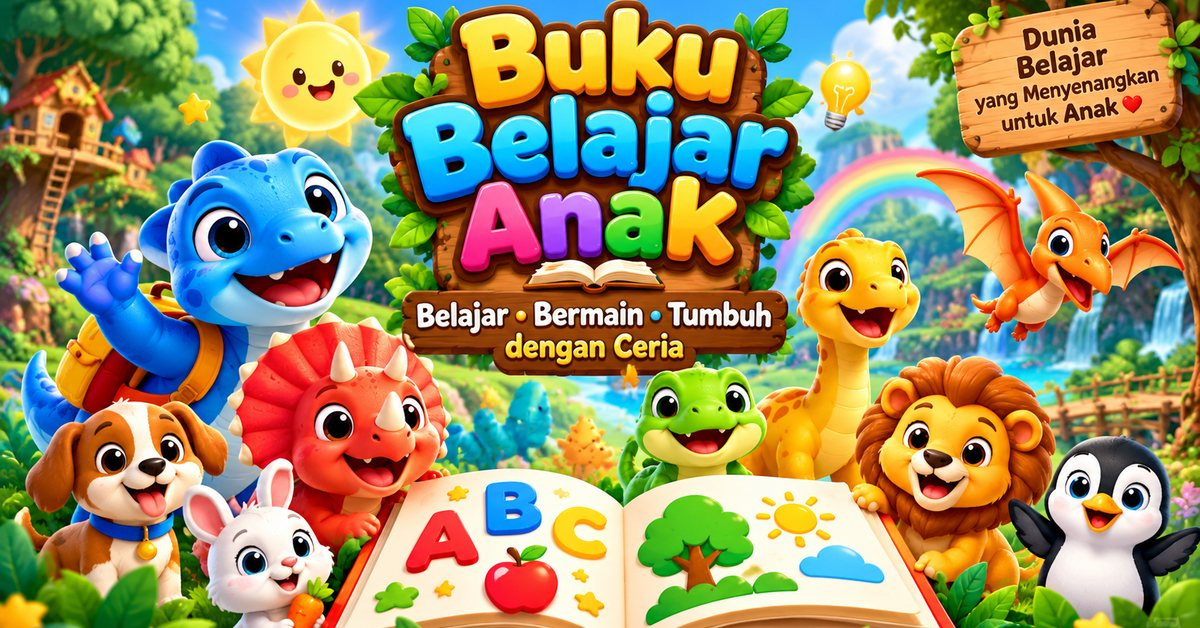
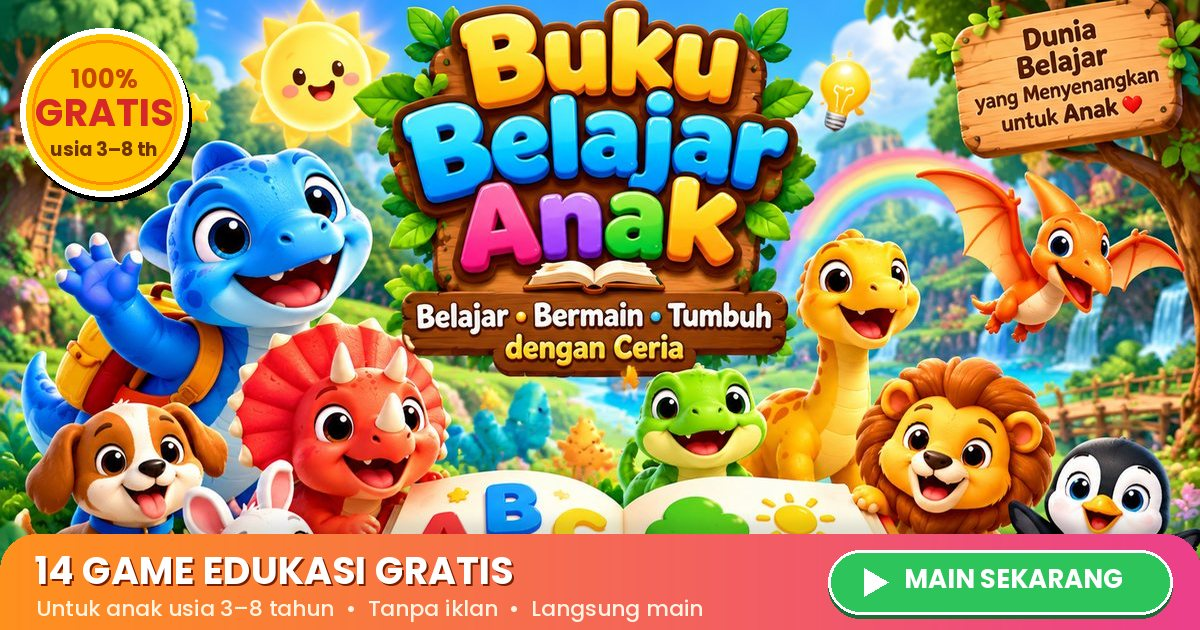
Add files via upload

diff --git a/index.html b/index.html
@@ -1,6 +1,6 @@
-<!doctype html><html lang="id"><head><meta charset="utf-8"><meta name="viewport" content="width=device-width,initial-scale=1,viewport-fit=cover"><title>Buku Belajar Anak – Game Edukasi Gratis untuk Anak 3–8 Tahun</title><meta name="description" content="Main &amp; belajar gratis bersama Dino! 14 game edukasi anak: mewarnai, berhitung, huruf, labirin, puzzle &amp; memori. Tanpa iklan, aman, bisa offline."><meta name="robots" content="index,follow,max-snippet:-1,max-image-preview:large,max-video-preview:-1"><meta name="author" content="Riki Hermawan"><meta name="application-name" content="Buku Belajar Anak"><meta name="apple-mobile-web-app-title" content="Buku Anak"><meta name="format-detection" content="telephone=no"><link rel="alternate" hreflang="id" href="https://belajarbermain.online/"><link rel="alternate" hreflang="x-default" href="https://belajarbermain.online/"><meta name="theme-color" content="#2f9bff"><link rel="canonical" href="https://belajarbermain.online/">
-<meta property="og:type" content="website"><meta property="og:site_name" content="Buku Belajar Anak"><meta property="og:locale" content="id_ID"><meta property="og:url" content="https://belajarbermain.online/"><meta property="og:title" content="Buku Belajar Anak 🦕 Game Edukasi Gratis, Seru & Aman untuk Anak"><meta property="og:description" content="Petualangan belajar bersama Dino Biru! 14 permainan edukasi: mewarnai, berhitung, huruf &amp; kata, labirin, puzzle, memori. 100% gratis, tanpa iklan, bisa offline. Yuk main! 🎮📚"><meta property="og:image" content="https://belajarbermain.online/preview.jpg"><meta property="og:image:type" content="image/jpeg"><meta property="og:image:width" content="1200"><meta property="og:image:height" content="628"><meta property="og:image:alt" content="Dino Biru, Dino Merah, dan Dino Kuning di Buku Belajar Anak: game edukasi gratis untuk anak">
-<meta name="twitter:card" content="summary_large_image"><meta name="twitter:title" content="Buku Belajar Anak 🦕 Game Edukasi Gratis, Seru & Aman untuk Anak"><meta name="twitter:description" content="Petualangan belajar bersama Dino Biru! 14 permainan edukasi: mewarnai, berhitung, huruf &amp; kata, labirin, puzzle, memori. 100% gratis, tanpa iklan, bisa offline. Yuk main! 🎮📚"><meta name="twitter:image" content="https://belajarbermain.online/preview.jpg">
+<!doctype html><html lang="id"><head><meta charset="utf-8"><meta name="viewport" content="width=device-width,initial-scale=1,viewport-fit=cover"><title>Buku Belajar Anak – Game Edukasi Gratis untuk Anak 3–8 Tahun</title><meta name="description" content="Main &amp; belajar gratis bersama 3 Dino! 14 game edukasi untuk anak 3–8 tahun: mewarnai, berhitung, huruf, labirin, puzzle &amp; memori. Tanpa iklan."><meta name="robots" content="index,follow,max-snippet:-1,max-image-preview:large,max-video-preview:-1"><meta name="author" content="Riki Hermawan"><meta name="application-name" content="Buku Belajar Anak"><meta name="apple-mobile-web-app-title" content="Buku Anak"><meta name="format-detection" content="telephone=no"><link rel="alternate" hreflang="id" href="https://belajarbermain.online/"><link rel="alternate" hreflang="x-default" href="https://belajarbermain.online/"><meta name="theme-color" content="#2f9bff"><link rel="canonical" href="https://belajarbermain.online/">
+<meta property="og:type" content="website"><meta property="og:site_name" content="Buku Belajar Anak"><meta property="og:locale" content="id_ID"><meta property="og:url" content="https://belajarbermain.online/"><meta property="og:title" content="Buku Belajar Anak 🦕 14 Game Edukasi Gratis"><meta property="og:description" content="Anak 3–8 th betah belajar! Gratis, tanpa iklan. Berhitung, huruf, logika, puzzle &amp; cerita bareng 3 Dino 🎮"><meta property="og:image" content="https://belajarbermain.online/preview-wa.jpg"><meta property="og:image:secure_url" content="https://belajarbermain.online/preview-wa.jpg"><meta property="og:image:type" content="image/jpeg"><meta property="og:image:width" content="1200"><meta property="og:image:height" content="630"><meta property="og:image:alt" content="Dino Biru, Dino Merah, dan Dino Kuning di Buku Belajar Anak. 14 game edukasi gratis untuk anak usia 3–8 tahun.">
+<meta name="twitter:card" content="summary_large_image"><meta name="twitter:title" content="Buku Belajar Anak 🦕 14 Game Edukasi Gratis"><meta name="twitter:description" content="Anak 3–8 th betah belajar! Gratis, tanpa iklan. Berhitung, huruf, logika, puzzle &amp; cerita bareng 3 Dino 🎮"><meta name="twitter:image" content="https://belajarbermain.online/preview-wa.jpg"><meta name="twitter:image:alt" content="Tiga Dino dan teman-teman di Buku Belajar Anak: 14 game edukasi gratis">
 <script type="application/ld+json">{"@context":"https://schema.org","@graph":[{"@type":"WebSite","@id":"https://belajarbermain.online/#website","url":"https://belajarbermain.online/","name":"Buku Belajar Anak","alternateName":["Belajar Bermain Online","Buku Anak"],"description":"Main & belajar gratis bersama Dino! 14 game edukasi anak: mewarnai, berhitung, huruf, labirin, puzzle & memori. Tanpa iklan, aman, bisa offline.","inLanguage":"id-ID","publisher":{"@id":"https://belajarbermain.online/#dev"}},{"@type":["SoftwareApplication","WebApplication"],"@id":"https://belajarbermain.online/#app","name":"Buku Belajar Anak","url":"https://belajarbermain.online/","description":"Petualangan belajar bersama Dino Biru! 14 permainan edukasi: mewarnai, berhitung, huruf & kata, labirin, puzzle, memori. 100% gratis, tanpa iklan, bisa offline. Yuk main! 🎮📚","applicationCategory":"EducationalApplication","operatingSystem":"Semua perangkat (Android, iOS, Windows, Smart TV) lewat browser","browserRequirements":"Membutuhkan JavaScript","inLanguage":"id-ID","isAccessibleForFree":true,"audience":{"@type":"PeopleAudience","suggestedMinAge":3,"suggestedMaxAge":8},"educationalUse":"Latihan berhitung, mengenal huruf, logika, memori, dan motorik halus","image":"https://belajarbermain.online/preview.jpg","offers":{"@type":"Offer","price":"0","priceCurrency":"IDR","availability":"https://schema.org/InStock"},"featureList":["14 permainan edukasi","Mewarnai, berhitung, huruf & kata, labirin, puzzle, memori","Tanpa iklan","Bisa dimainkan offline","Musik dan efek suara ramah anak","Peringkat dan progres belajar"],"author":{"@id":"https://belajarbermain.online/#dev"}},{"@type":"Person","@id":"https://belajarbermain.online/#dev","name":"Riki Hermawan","url":"https://benyoriki.com","jobTitle":"Sistem & Website Developer"}]}</script><link rel="manifest" href="manifest.json"><link rel="dns-prefetch" href="https://benyoriki.github.io"><link rel="icon" type="image/png" sizes="192x192" href="icon-192.png"><link rel="icon" type="image/png" sizes="512x512" href="icon-512.png"><link rel="apple-touch-icon" href="apple-touch-icon.png"><link rel="preload" href="fonts/fredoka-latin-wght-normal.woff2" as="font" type="font/woff2" crossorigin><link rel="preload" href="fonts/nunito-latin-wght-normal.woff2" as="font" type="font/woff2" crossorigin><link rel="stylesheet" href="style.css"><link rel="stylesheet" href="modern.css"></head>
 <body>
 <div id="ld" role="status" aria-label="Memuat"><div class="ldc"><i class="ai" style="--x:0%;--y:0%"></i><i class="ai" style="--x:8.3%;--y:0%"></i><i class="ai" style="--x:16.7%;--y:0%"></i></div><div class="lg"><span class="y">Buku</span> <span class="b">Belajar</span> <span class="p">Anak</span></div><span class="ver ldv">✨ Sistem Update v13</span><p>Belajar, Bermain, Tumbuh dengan Ceria!</p><div class="br"><i></i></div><small>Sistem &amp; Website Developer<br><a href="https://benyoriki.com" target="_blank" rel="noopener noreferrer"><b>benyoriki.com</b></a></small></div><noscript><style>#ld{display:none}</style></noscript>

diff --git a/README.md b/README.md
@@ -115,3 +115,6 @@ Layar sambutan baru (hero, statistik, keunggulan, 3 langkah) untuk pengunjung ba
 ## Versi 20.1 — Audit permainan
 Laporan lengkap: `docs/LAPORAN_AUDIT.md`; matriks uji: `docs/TEST_MATRIX.md`; uji manual: `docs/CHECKLIST_MANUAL.md`; skrip uji otomatis (Playwright): `docs/tests_otomatis/`.
 Ringkas: tanggal harian lokal; batas poin 600/hari (konstanta `DAYCAP`, perlu persetujuan); lembar Mewarnai baru tiap sesi; hadiah Puzzle hanya penyelesaian pertama; timer permainan batal saat keluar; Ingat Urutan terkunci saat jeda + tombol Ulangi contoh; migrasi aman `bba1` (data rusak disalin ke `bba1_rusak`); pilihan tingkat Lebih mudah/Pas/Lebih seru; pengurangan untuk 7–8 tahun; dedupe soal; notifikasi versi baru; cache `bba-v26`; kontrol Ulangi + Menu seragam di dalam semua permainan.
+
+## Versi 20.2 — Pratinjau tautan WhatsApp
+Gambar baru `preview-wa.jpg` (1200×630) dan judul/deskripsi OG & Twitter yang lebih menjual (tanpa klaim "aman"/"offline"). Panduan kata-kata Status dan cara menyegarkan cache pratinjau: `docs/KATA_PROMOSI_WHATSAPP.md`.
